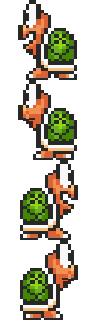
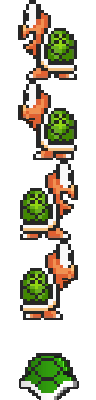
Dodano skorupy żółwi

diff --git a/src/main.c b/src/main.c
@@ -87,7 +87,7 @@ int main()
     ALLEGRO_BITMAP* brick3 = al_create_bitmap(64, 64);
     ALLEGRO_BITMAP* cloud = al_create_bitmap(256, 256);
     ALLEGRO_BITMAP* enemy1 = al_create_bitmap(64, 64*2);
-    ALLEGRO_BITMAP* enemy2 = al_create_bitmap(96, 80*4);
+    ALLEGRO_BITMAP* enemy2 = al_create_bitmap(96, 80*5);
 
     brick = al_load_bitmap("./resources/brick_orange.png");
     brick2 = al_load_bitmap("./resources/brick_orange_unbreakable.png");
@@ -98,14 +98,14 @@ int main()
 
     Object temp_enemy;
         bind_bitmap(&temp_enemy, enemy1);
-        init_object(&temp_enemy, ENEMY_GOOMBA, 260+64, 2*64, 64, 64, RECTANGLE, 260+64, 2*64+8, 64, 64-8, goomba_physics, 2);
+        init_object(&temp_enemy, ENEMY_GOOMBA, 260+64, 2*64, 64, 64, RECTANGLE, 260+64+7, 2*64+8, 50, 64-8, goomba_physics, 2);
         push_back_ol(&non_static_elements, temp_enemy);
 
-        init_object(&temp_enemy, ENEMY_GOOMBA, 260, 2*64, 64, 64, RECTANGLE, 260, 2*64+8, 64, 64-8, goomba_physics, 2);
+        init_object(&temp_enemy, ENEMY_GOOMBA, 260, 2*64, 64, 64, RECTANGLE, 260+7, 2*64+8, 50, 64-8, goomba_physics, 2);
         push_back_ol(&non_static_elements, temp_enemy);
 
         bind_bitmap(&temp_enemy, enemy2);
-        init_object(&temp_enemy, ENEMY_KOOPA, 21*64, 8*64-16, 96, 80, RECTANGLE, 21*64+16, 8*64-16, 64, 80, koopa_physics, 2);
+        init_object(&temp_enemy, ENEMY_KOOPA, 21*64, 8*64-16, 96, 80, RECTANGLE, 21*64+16, 8*64-16, 64, 80, koopa_physics, 4);
         push_back_ol(&non_static_elements, temp_enemy);
 
     Object temp_cloud;
@@ -242,7 +242,7 @@ int main()
                 //draw_hitbox(get_element_pointer_ol(&non_static_elements, i)->hitbox, screen_offset);
             }
 
-            // PLAYERS
+            // PLAYER
 
             draw_object(&player, screen_offset);
             //draw_hitbox(player.hitbox, screen_offset);

diff --git a/src/object_updates.c b/src/object_updates.c
@@ -264,3 +264,17 @@ void update_non_static_objects(ObjectsList* objects, Object level[MAP_HEIGHT][MA
         // TODO:
     }
 }
+
+void spawn_shell(Object* enemy, ObjectsList* list)
+{
+    Object new_shell;
+    Physics shell_physics = create_physics(0.0f, 0.0f, 6.0f, 0.0f, 2.0f);
+
+    // shell is 60x53 vs koopa's 96x80
+
+    bind_bitmap(&new_shell, enemy->bitmap);
+    init_object(&new_shell, KOOPA_SHELL, enemy->pos_x, enemy->pos_y, 96, 80, RECTANGLE, enemy->pos_x + 18, enemy->pos_y + 32, 60, 48, shell_physics, 1);
+    new_shell.animation_frame = 4;
+
+    push_back_ol(list, new_shell);
+}

diff --git a/src/player.c b/src/player.c
@@ -101,11 +101,10 @@ void non_static_object_interactions(Object* player, ObjectsList* list)
         {
             if (player->physics.speed.y > 0 && relative_direction(player, object, BOTTOM))
             {
-                kill(object, i, list);
+                if (object->type == ENEMY_KOOPA)
+                    spawn_shell(object, list);
 
-                // TODO: TODO: TODO:
-                //if (object->type == ENEMY_KOOPA)
-                    // spawn_shell();
+                kill(object, i, list);
 
                 player->physics.speed.y = -15;
                 size--;

diff --git a/src/hitbox.c b/src/hitbox.c
@@ -96,5 +96,5 @@ bool collide(Hitbox first, Hitbox second)
 
 void draw_hitbox(Hitbox hitbox, int screen_offset)
 {
-    al_draw_filled_rectangle(hitbox.pos_x - screen_offset, hitbox.pos_y, hitbox.pos_x + hitbox.width - screen_offset, hitbox.pos_y + hitbox.height, OPAQUE_RED);
+    al_draw_filled_rectangle(hitbox.pos_x - screen_offset, hitbox.pos_y + 16, hitbox.pos_x + hitbox.width - screen_offset, hitbox.pos_y + hitbox.height + 16, OPAQUE_RED);
 }

diff --git a/src/object_updates.h b/src/object_updates.h
@@ -30,4 +30,7 @@ void animate_non_static_objects(ObjectsList* objects, int frame);
 // kills an object :( (literally)
 void kill(Object* object, int i, ObjectsList* list);
 
+// spawns a shell after a kooppa enemy die
+void spawn_shell(Object* enemy, ObjectsList* list);
+
 #endif

diff --git a/src/object.h b/src/object.h
@@ -55,6 +55,7 @@ typedef enum
     EMPTY,
     ENEMY_GOOMBA,
     ENEMY_KOOPA,
+    KOOPA_SHELL,
     PLATFORM,
     BACKGROUND,
 
